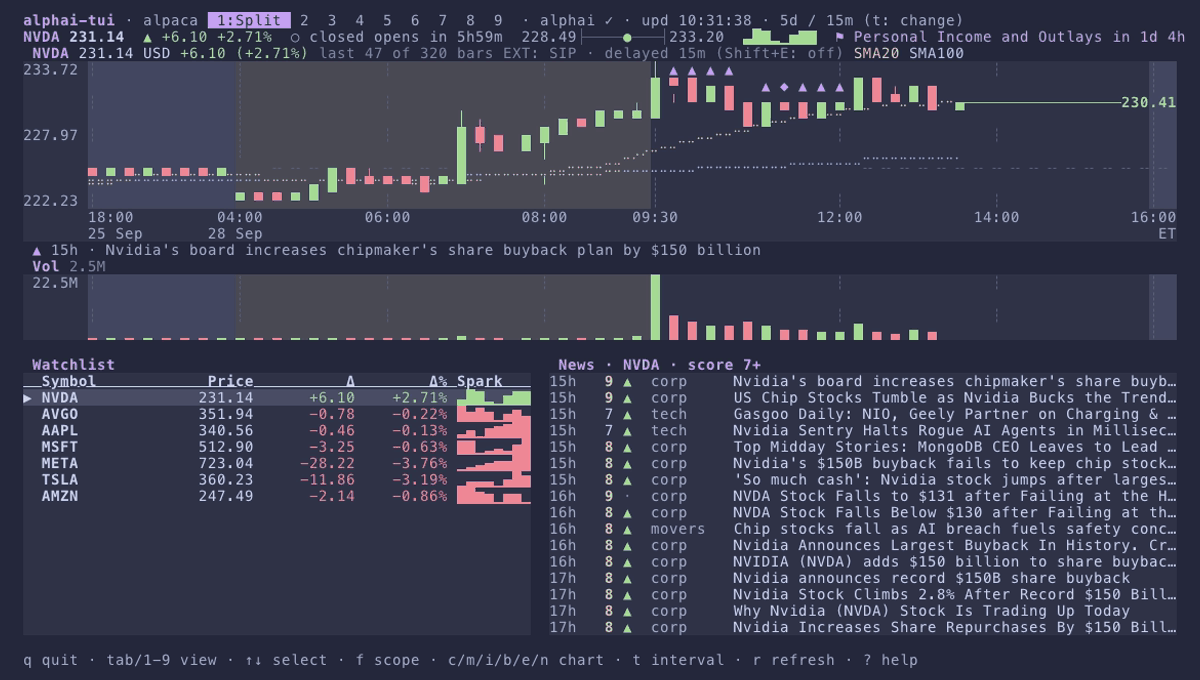
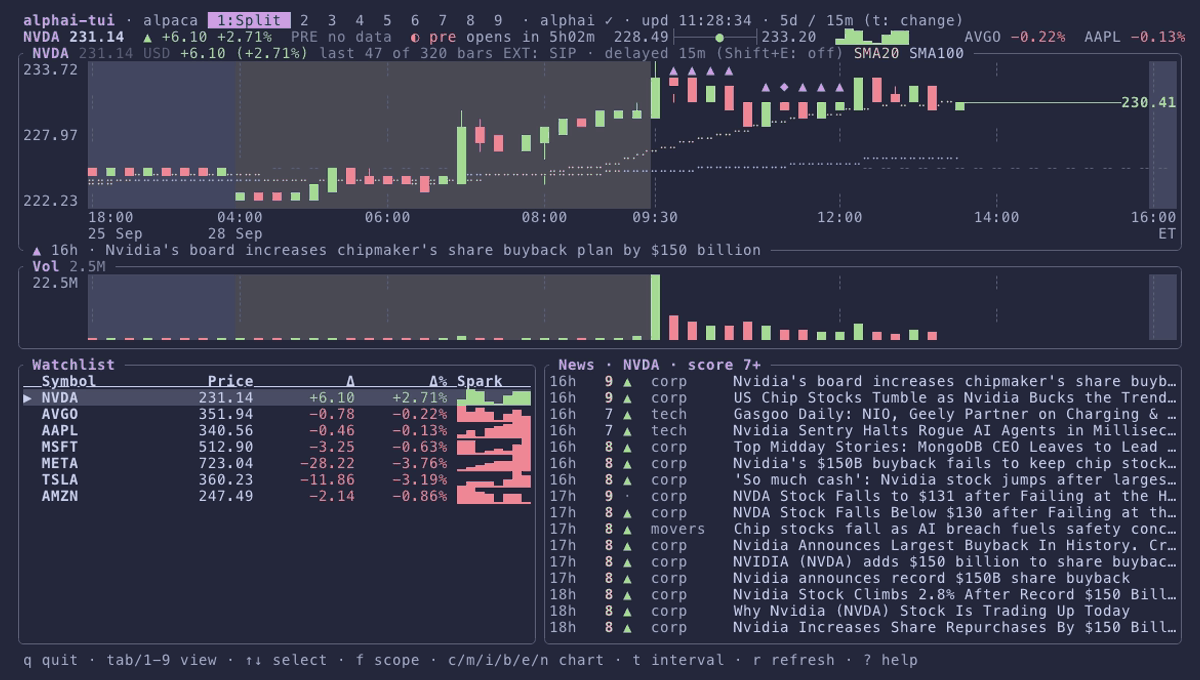
docs: reshoot the README with the default frame lines
The screenshots, the demo gif and the theme gallery show the default
rounded frames again. Tinted panels (`[ui] borders = "none"`) keep their
place as an option: the tmux workspace uses them, and a Split example
next to the gallery shows them on their own.

diff --git a/README.md b/README.md
@@ -31,8 +31,7 @@ both, and after that a bare `alphai-tui` reopens your watchlist.
 Nine views, one keystroke apart (`1` to `9`, or Tab). Some follow the
 selected ticker; Summary, Portfolio and Calendar cover several names.
 One line under the tabs carries the selected ticker's price into all of them.
-The screenshots use the `dracula` preset and `[ui] borders = "none"`,
-tinted panels in place of the default frame lines.
+The screenshots use the `dracula` preset.
 
 ### The quote rail, in every view
 
@@ -613,6 +612,11 @@ status bar has little use for, and hands both rows to the view; `z` toggles
 it in a running instance and `[ui] bare = true` makes it the default. The
 quote rail stays, so a bare pane still names its ticker and its price.
 
+Tiled panes put frames next to frames, so the shot below also sets
+`[ui] borders = "none"`: each panel becomes a tinted surface with a small
+gutter and its title above, and the panes read as one desk. The Panels row
+in the settings screen switches it live.
+
 Press `4` in the three chart panes and `2` in the tall one, and you get a
 wall of charts next to a live scored feed:
 
@@ -886,8 +890,7 @@ preset = "catppuccin-mocha"
 ```
 
 Each preset on a terminal wearing the matching palette (`default` on a plain
-dark one, since it takes the terminal's own colors), with
-`borders = "none"`:
+dark one, since it takes the terminal's own colors):
 
 <table>
 <tr>
@@ -906,6 +909,12 @@ dark one, since it takes the terminal's own colors), with
 <td align="center"><img src="https://raw.githubusercontent.com/makeev/alphai-tui/main/assets/gallerygruvboxlight.png" alt="alphai-tui split view in the gruvbox-light preset" width="100%"><br><code>gruvbox-light</code></td>
 </tr>
 </table>
+
+The panel look is a separate choice. Frame lines are the default (`rounded`,
+or `plain`); `[ui] borders = "none"`, or the Panels row in the settings
+screen, draws tinted panels with a gutter instead:
+
+![alphai-tui split view in the dracula preset with borders = "none": tinted panels separated by a small gutter, each titled above, in place of frame lines](https://raw.githubusercontent.com/makeev/alphai-tui/main/assets/borderless.png)
 
 `}` and `{` walk the presets live, `--theme catppuccin-mocha` picks one
 for a single run, and the Theme row in the settings screen (`s`) does
